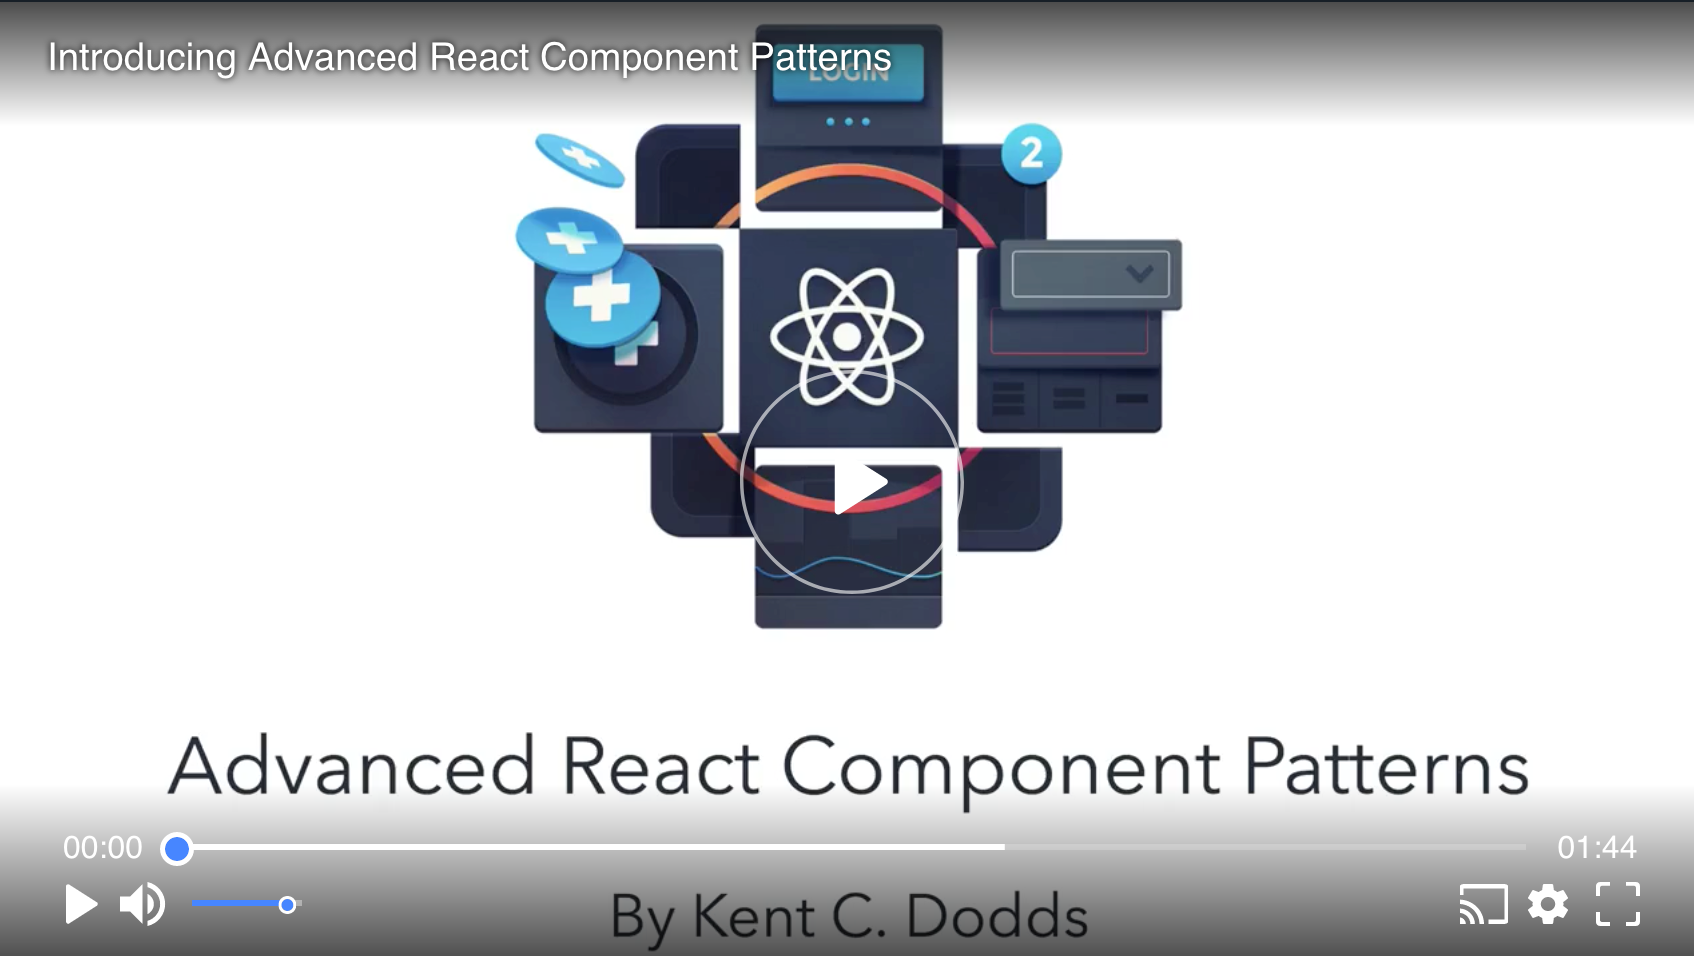
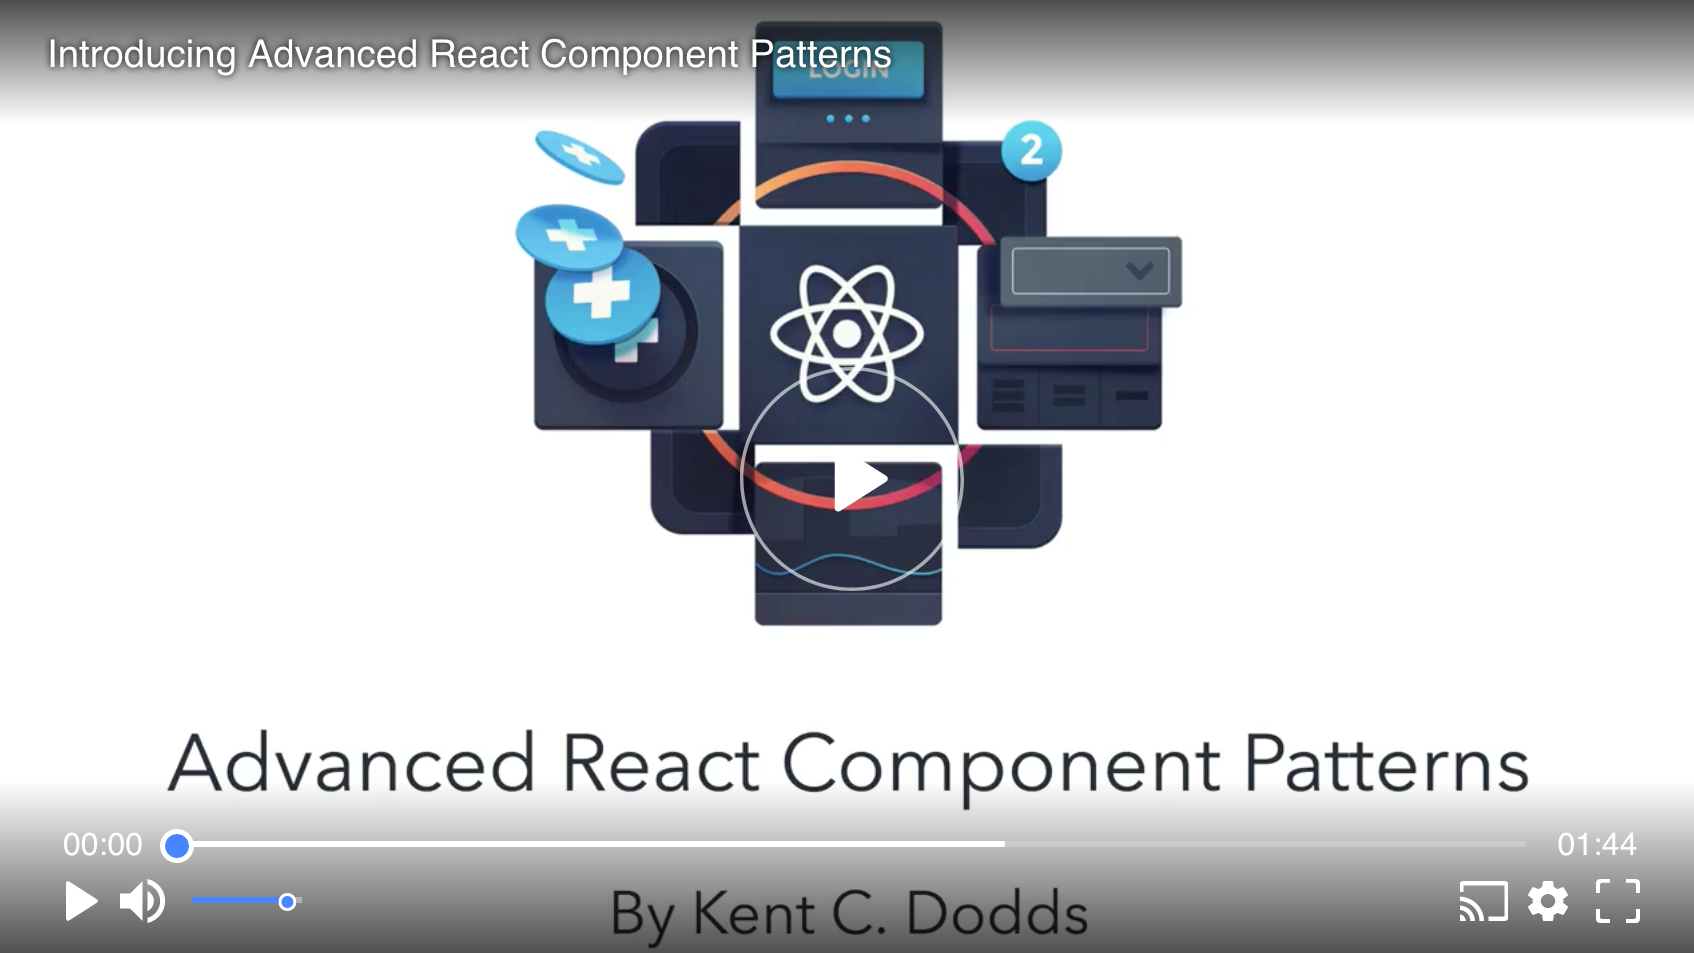
explains screenshot, slightly crops image to look a bit better

diff --git a/03-Creating-Courses/01-Creating-Courses.md b/03-Creating-Courses/01-Creating-Courses.md
@@ -98,7 +98,7 @@ The course overview video is a conversation. It's a bit of a sales pitch, to get
 
 Imagine a collegue has asked you to explain what your course is about and why they should watch it.
 
-The introductory video is your answer to them!
+The introductory video is your answer to them! Here's an example of a well executed introductory video: 
 
 [![Course Overview Example](../images/screenshots/course-overview-lesson.png)](https://egghead.io/lessons/react-introducing-advanced-react-component-patterns?play=true)
 
